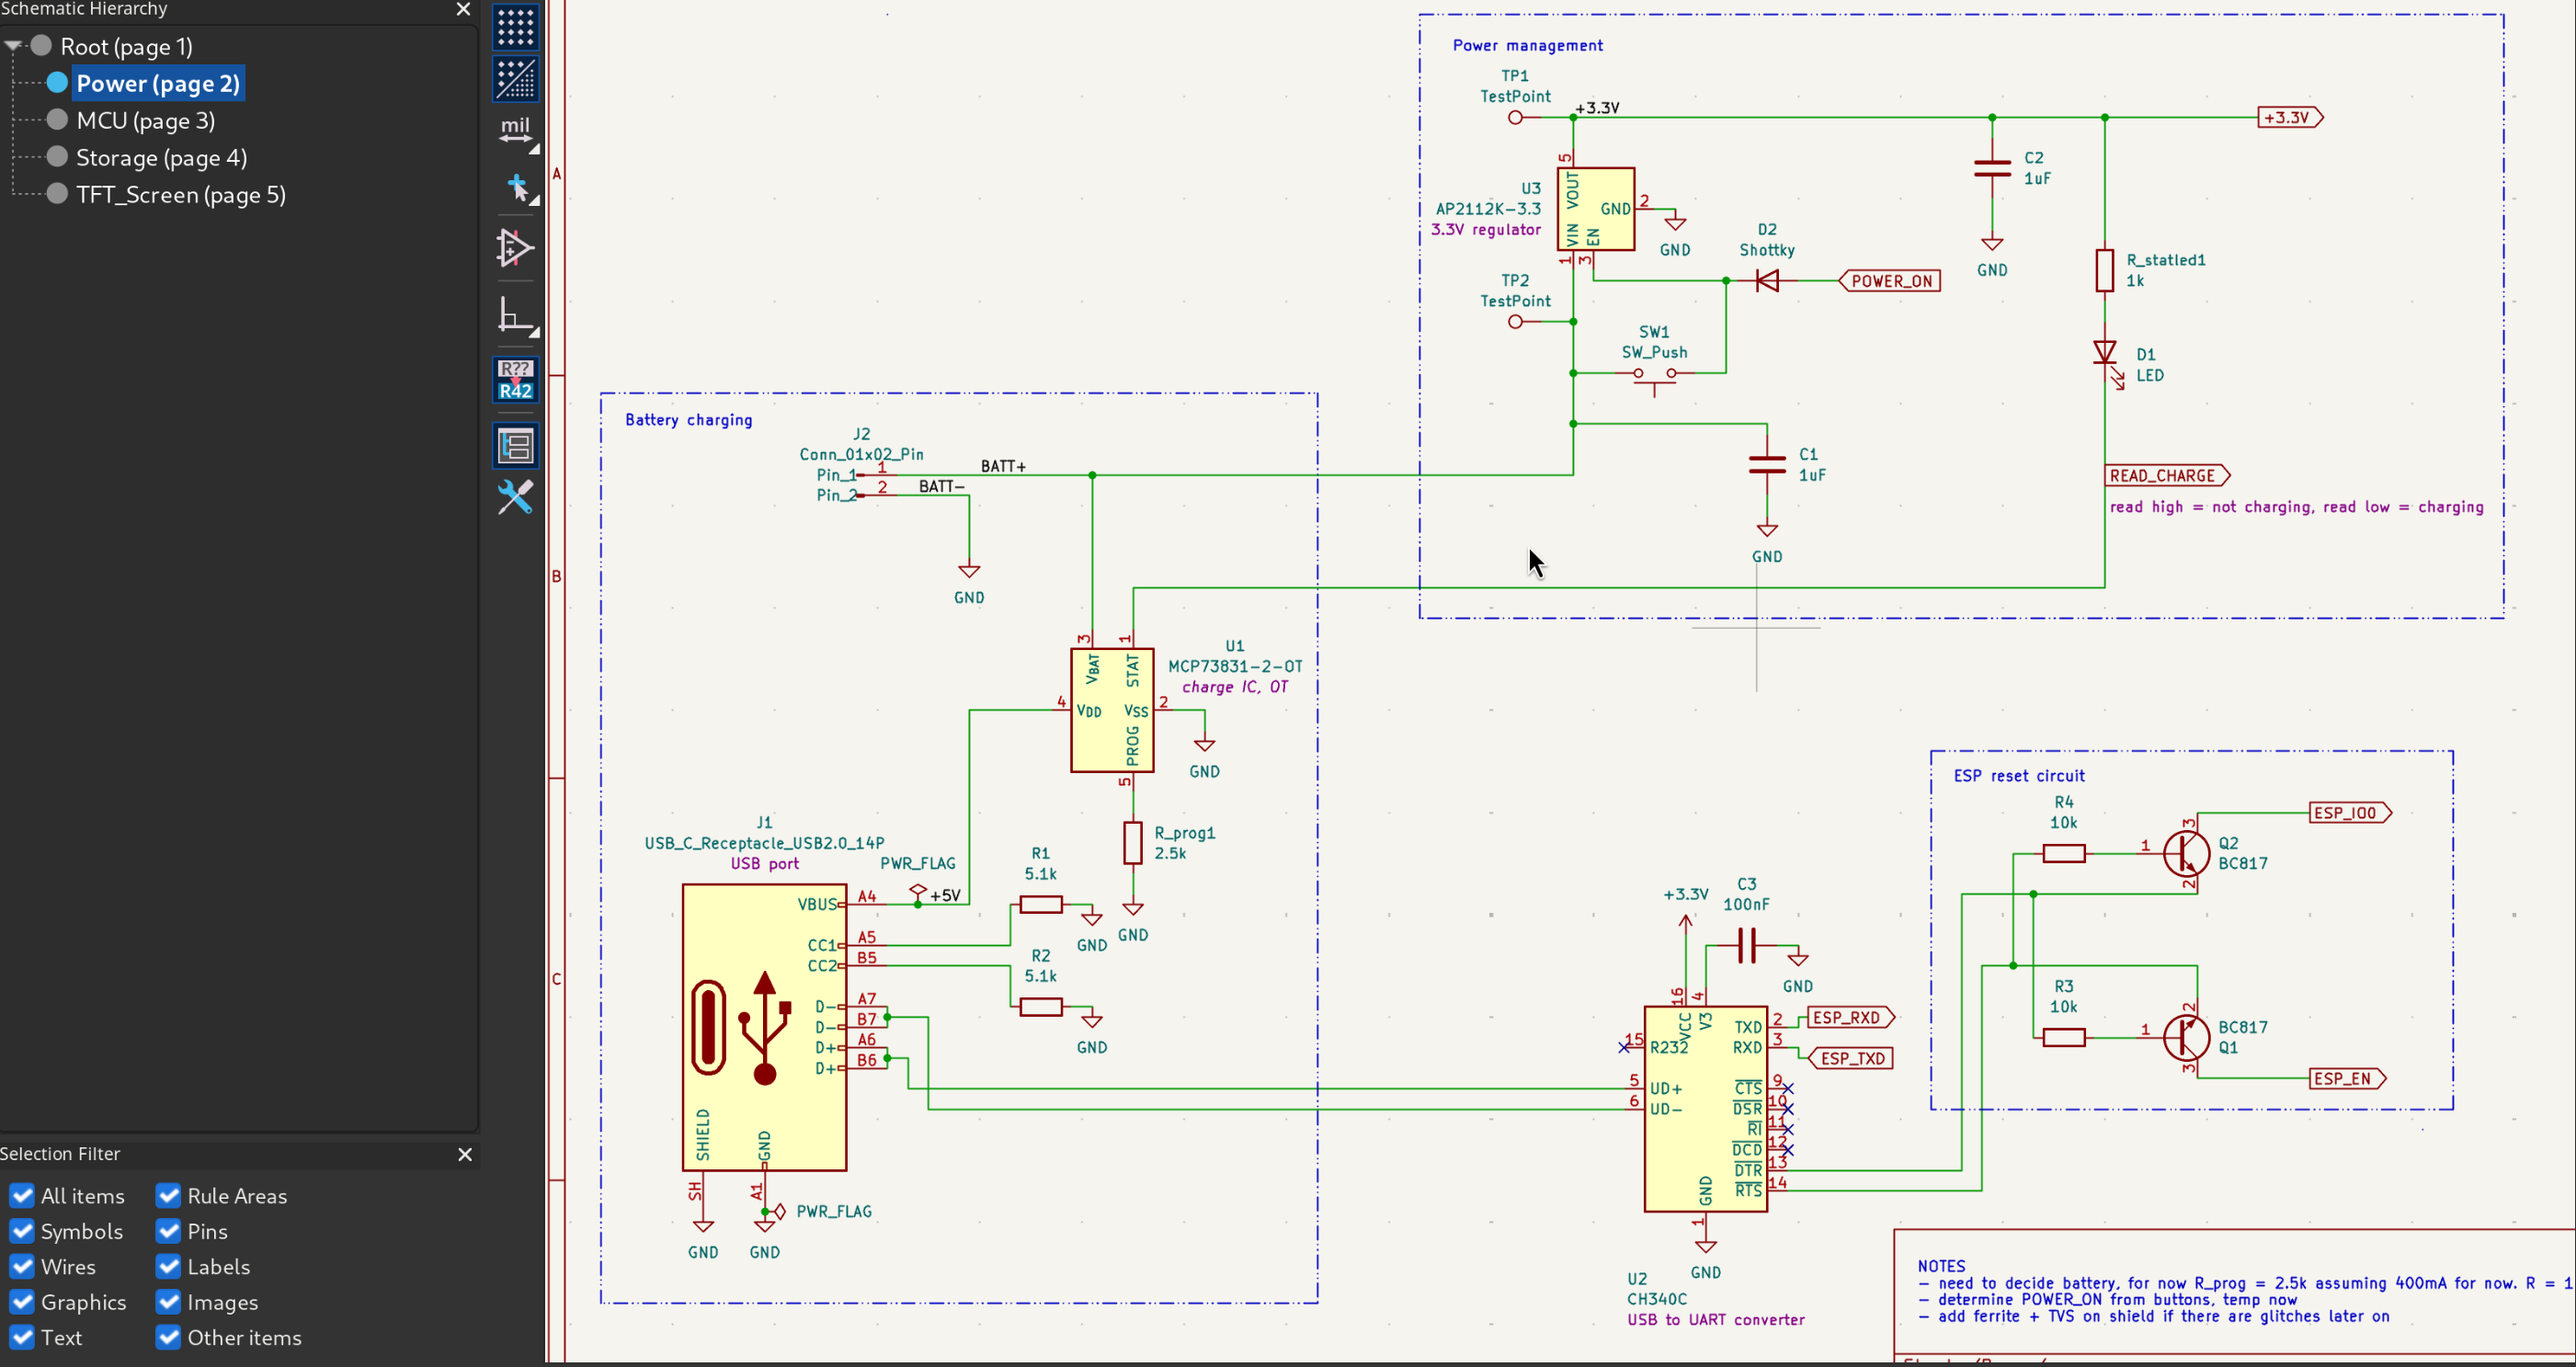
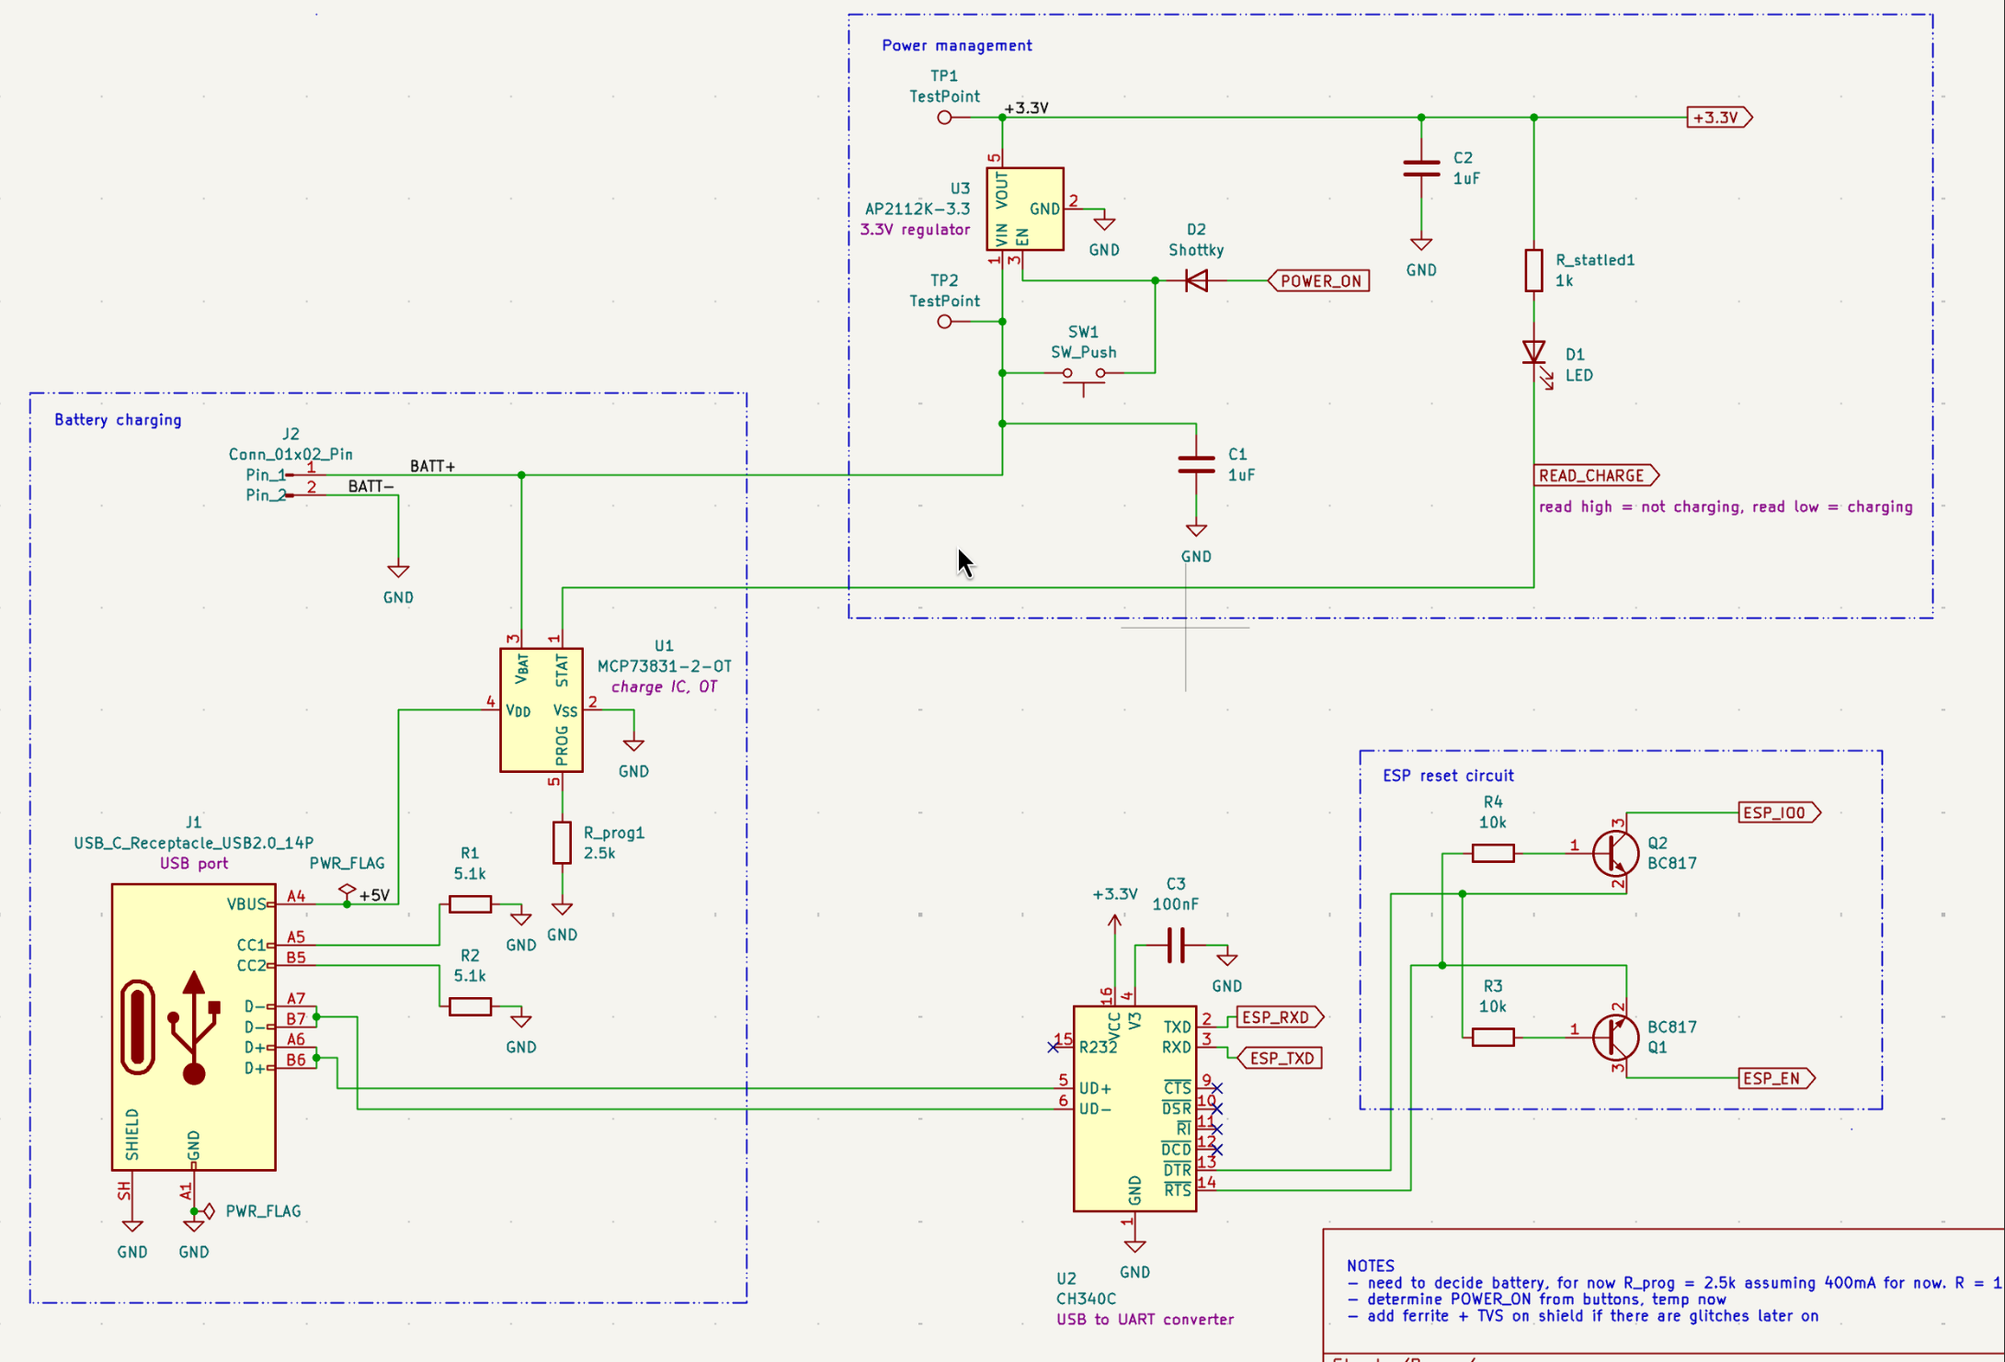
fix caching?

diff --git a/projects.html b/projects.html
@@ -4,6 +4,35 @@
   <meta charset="UTF-8">
   <meta name="viewport" content="width=device-width, initial-scale=1.0">
   <script>
+    window.SITE_REVISION = new URLSearchParams(window.location.search).get('v') || Date.now().toString(36);
+    window.versionedAssetUrl = path => {
+      const assetUrl = new URL(path, window.location.href);
+      assetUrl.searchParams.set('v', window.SITE_REVISION);
+      return assetUrl.href;
+    };
+    window.loadVersionedStyles = paths => paths.forEach(path => {
+      const stylesheet = document.createElement('link');
+      stylesheet.rel = 'stylesheet';
+      stylesheet.href = window.versionedAssetUrl(path);
+      document.head.appendChild(stylesheet);
+    });
+    window.loadVersionedScripts = paths => paths.forEach(path => {
+      document.write(`<script src="${window.versionedAssetUrl(path)}"><\/script>`);
+    });
+    fetch(`version.json?t=${Date.now()}`, { cache: 'no-store' })
+      .then(response => response.ok ? response.json() : null)
+      .then(build => {
+        if (!build?.revision) return;
+
+        const currentUrl = new URL(window.location.href);
+        if (currentUrl.searchParams.get('v') !== build.revision) {
+          currentUrl.searchParams.set('v', build.revision);
+          window.location.replace(currentUrl.href);
+        }
+      })
+      .catch(() => {});
+  </script>
+  <script>
     try {
       const linkedTheme = new URLSearchParams(location.search).get('theme');
       const savedTheme = linkedTheme || localStorage.getItem('theme');
@@ -14,10 +43,14 @@
     } catch {}
   </script>
   <title>Zuri Ye - Projects</title>
-  <link rel="stylesheet" href="css/variables.css">
-  <link rel="stylesheet" href="css/base.css">
-  <link rel="stylesheet" href="css/components.css">
-  <link rel="stylesheet" href="css/pages.css">
+  <script>
+    window.loadVersionedStyles([
+      'css/variables.css',
+      'css/base.css',
+      'css/components.css',
+      'css/pages.css'
+    ]);
+  </script>
 </head>
 <body>
 
@@ -43,9 +76,9 @@
     </div>
   </section>
 
-  <script src="js/config.js"></script>
-  <script src="js/interactions.js"></script>
-  <script src="data/projects.js"></script>
+  <script>
+    window.loadVersionedScripts(['js/config.js', 'js/interactions.js', 'data/projects.js']);
+  </script>
   <script>
     document.addEventListener('DOMContentLoaded', () => {
       const grid = document.getElementById('projects-grid');
@@ -61,6 +94,7 @@
         activeCartridge = document.activeElement;
         overlayTitle.textContent = project.title;
         overlayContent.innerHTML = project.content;
+        versionLocalAssets(overlayContent);
         overlay.classList.add('is-open');
         overlay.setAttribute('aria-hidden', 'false');
         document.body.classList.add('project-overlay-open');
@@ -109,7 +143,7 @@
         let tagsHtml = project.tags.map(tag => `<span class="tag">${tag}</span>`).join('');
 
         cartridge.innerHTML = `
-          <img src="assets/sprites/cartridge.png" class="cartridge-bg" alt="Cartridge">
+          <img src="${window.versionedAssetUrl('assets/sprites/cartridge.png')}" class="cartridge-bg" alt="Cartridge">
           <div class="cartridge-content">
             <h2 class="cartridge-title" style="top: ${cLayout.title.top}; left: ${cLayout.title.left}; transform: ${cLayout.title.transform || 'none'}; width: ${cLayout.title.width};">${project.title}</h2>
             ${project.subheading ? `<div class="cartridge-subheading" style="top: ${cLayout.subheading.top}; left: ${cLayout.subheading.left}; transform: ${cLayout.subheading.transform || 'none'}; width: ${cLayout.subheading.width};">${project.subheading}</div>` : ''}

diff --git a/index.html b/index.html
@@ -3,11 +3,35 @@
 <head>
   <meta charset="UTF-8">
   <meta name="viewport" content="width=device-width, initial-scale=1.0">
+  <script>
+    window.SITE_REVISION = new URLSearchParams(window.location.search).get('v') || Date.now().toString(36);
+    window.versionedAssetUrl = path => {
+      const assetUrl = new URL(path, window.location.href);
+      assetUrl.searchParams.set('v', window.SITE_REVISION);
+      return assetUrl.href;
+    };
+    window.loadVersionedStyles = paths => paths.forEach(path => {
+      const stylesheet = document.createElement('link');
+      stylesheet.rel = 'stylesheet';
+      stylesheet.href = window.versionedAssetUrl(path);
+      document.head.appendChild(stylesheet);
+    });
+    window.loadVersionedScripts = paths => paths.forEach(path => {
+      document.write(`<script src="${window.versionedAssetUrl(path)}"><\/script>`);
+    });
+    fetch(`version.json?t=${Date.now()}`, { cache: 'no-store' })
+      .then(response => response.ok ? response.json() : null)
+      .then(build => {
+        if (!build?.revision) return;
 
-  <!-- Cache Control: Prevents browsers from caching index.html -->
-  <meta http-equiv="Cache-Control" content="no-cache, no-store, must-revalidate">
-  <meta http-equiv="Pragma" content="no-cache">
-  <meta http-equiv="Expires" content="0">
+        const currentUrl = new URL(window.location.href);
+        if (currentUrl.searchParams.get('v') !== build.revision) {
+          currentUrl.searchParams.set('v', build.revision);
+          window.location.replace(currentUrl.href);
+        }
+      })
+      .catch(() => {});
+  </script>
 
   <script>
     try {
@@ -26,11 +50,14 @@
   <meta name="twitter:image" content="https://zuri2102.github.io/personal_website/ref/pokemon_example.png">
   <title>Zuri Ye - Home</title>
 
-  <!-- Cache-busted stylesheets -->
-  <link rel="stylesheet" href="css/variables.css?v=1.0">
-  <link rel="stylesheet" href="css/base.css?v=1.0">
-  <link rel="stylesheet" href="css/components.css?v=1.0">
-  <link rel="stylesheet" href="css/pages.css?v=1.0">
+  <script>
+    window.loadVersionedStyles([
+      'css/variables.css',
+      'css/base.css',
+      'css/components.css',
+      'css/pages.css'
+    ]);
+  </script>
 </head>
 <body>
 
@@ -45,7 +72,7 @@
   <main class="home-layout">
     
     <div class="splash-container" id="splash-container">
-      <img src="assets/images/404splash.png" alt="404 Splash" class="splash-img">
+      <img data-versioned-src="assets/images/404splash.png" alt="404 Splash" class="splash-img">
       <!-- Pokémon Sprites -->
       <a href="https://pokemondb.net/pokedex/purrloin" class="sprite sprite-bw" id="sprite-purrloin" target="_blank">
         <img src="https://img.pokemondb.net/sprites/black-white/anim/normal/purrloin.gif" alt="Purrloin" style="width:100%; height:auto; display:block;">
@@ -60,7 +87,7 @@
 
     <h1 class="home-name">ZURI YE</h1>
 
-    <a href="assets/resume.pdf" class="btn-primary retro-press" target="_blank" rel="noopener">RESUME</a>
+    <a data-versioned-href="assets/resume.pdf" class="btn-primary retro-press" target="_blank" rel="noopener">RESUME</a>
 
     <div class="home-links">
       <a href="https://github.com/zuri2102" target="_blank" rel="noopener noreferrer">GitHub</a>
@@ -72,9 +99,9 @@
 
   </main>
 
-  <!-- Cache-busted scripts -->
-  <script src="js/config.js?v=1.0"></script>
-  <script src="js/interactions.js?v=1.0"></script>
+  <script>
+    window.loadVersionedScripts(['js/config.js', 'js/interactions.js']);
+  </script>
   <script>
     // Apply configuration positions to sprites
     document.addEventListener('DOMContentLoaded', () => {

diff --git a/project.html b/project.html
@@ -4,6 +4,35 @@
   <meta charset="UTF-8">
   <meta name="viewport" content="width=device-width, initial-scale=1.0">
   <script>
+    window.SITE_REVISION = new URLSearchParams(window.location.search).get('v') || Date.now().toString(36);
+    window.versionedAssetUrl = path => {
+      const assetUrl = new URL(path, window.location.href);
+      assetUrl.searchParams.set('v', window.SITE_REVISION);
+      return assetUrl.href;
+    };
+    window.loadVersionedStyles = paths => paths.forEach(path => {
+      const stylesheet = document.createElement('link');
+      stylesheet.rel = 'stylesheet';
+      stylesheet.href = window.versionedAssetUrl(path);
+      document.head.appendChild(stylesheet);
+    });
+    window.loadVersionedScripts = paths => paths.forEach(path => {
+      document.write(`<script src="${window.versionedAssetUrl(path)}"><\/script>`);
+    });
+    fetch(`version.json?t=${Date.now()}`, { cache: 'no-store' })
+      .then(response => response.ok ? response.json() : null)
+      .then(build => {
+        if (!build?.revision) return;
+
+        const currentUrl = new URL(window.location.href);
+        if (currentUrl.searchParams.get('v') !== build.revision) {
+          currentUrl.searchParams.set('v', build.revision);
+          window.location.replace(currentUrl.href);
+        }
+      })
+      .catch(() => {});
+  </script>
+  <script>
     try {
       const linkedTheme = new URLSearchParams(location.search).get('theme');
       const savedTheme = linkedTheme || localStorage.getItem('theme');
@@ -14,10 +43,14 @@
     } catch {}
   </script>
   <title>Zuri Ye - Project</title>
-  <link rel="stylesheet" href="css/variables.css">
-  <link rel="stylesheet" href="css/base.css">
-  <link rel="stylesheet" href="css/components.css">
-  <link rel="stylesheet" href="css/pages.css">
+  <script>
+    window.loadVersionedStyles([
+      'css/variables.css',
+      'css/base.css',
+      'css/components.css',
+      'css/pages.css'
+    ]);
+  </script>
 </head>
 <body>
 
@@ -39,9 +72,9 @@
     </div>
   </main>
 
-  <script src="js/config.js"></script>
-  <script src="js/interactions.js"></script>
-  <script src="data/projects.js"></script>
+  <script>
+    window.loadVersionedScripts(['js/config.js', 'js/interactions.js', 'data/projects.js']);
+  </script>
   <script>
     document.addEventListener('DOMContentLoaded', () => {
       const params = new URLSearchParams(window.location.search);
@@ -57,6 +90,7 @@
         document.title = `Zuri Ye - ${project.title}`;
         document.getElementById('project-title').textContent = project.title;
         document.getElementById('project-content').innerHTML = project.content;
+        versionLocalAssets(document.getElementById('project-content'));
       } else {
         document.getElementById('project-title').textContent = "Project Not Found";
       }

diff --git a/about.html b/about.html
@@ -4,6 +4,35 @@
   <meta charset="UTF-8">
   <meta name="viewport" content="width=device-width, initial-scale=1.0">
   <script>
+    window.SITE_REVISION = new URLSearchParams(window.location.search).get('v') || Date.now().toString(36);
+    window.versionedAssetUrl = path => {
+      const assetUrl = new URL(path, window.location.href);
+      assetUrl.searchParams.set('v', window.SITE_REVISION);
+      return assetUrl.href;
+    };
+    window.loadVersionedStyles = paths => paths.forEach(path => {
+      const stylesheet = document.createElement('link');
+      stylesheet.rel = 'stylesheet';
+      stylesheet.href = window.versionedAssetUrl(path);
+      document.head.appendChild(stylesheet);
+    });
+    window.loadVersionedScripts = paths => paths.forEach(path => {
+      document.write(`<script src="${window.versionedAssetUrl(path)}"><\/script>`);
+    });
+    fetch(`version.json?t=${Date.now()}`, { cache: 'no-store' })
+      .then(response => response.ok ? response.json() : null)
+      .then(build => {
+        if (!build?.revision) return;
+
+        const currentUrl = new URL(window.location.href);
+        if (currentUrl.searchParams.get('v') !== build.revision) {
+          currentUrl.searchParams.set('v', build.revision);
+          window.location.replace(currentUrl.href);
+        }
+      })
+      .catch(() => {});
+  </script>
+  <script>
     try {
       const linkedTheme = new URLSearchParams(location.search).get('theme');
       const savedTheme = linkedTheme || localStorage.getItem('theme');
@@ -14,10 +43,14 @@
     } catch {}
   </script>
   <title>Zuri Ye - About</title>
-  <link rel="stylesheet" href="css/variables.css">
-  <link rel="stylesheet" href="css/base.css">
-  <link rel="stylesheet" href="css/components.css">
-  <link rel="stylesheet" href="css/pages.css">
+  <script>
+    window.loadVersionedStyles([
+      'css/variables.css',
+      'css/base.css',
+      'css/components.css',
+      'css/pages.css'
+    ]);
+  </script>
 </head>
 <body>
 
@@ -35,9 +68,9 @@
     </div>
   </main>
 
-  <script src="js/config.js"></script>
-  <script src="js/interactions.js"></script>
-  <script src="data/about.js"></script>
+  <script>
+    window.loadVersionedScripts(['js/config.js', 'js/interactions.js', 'data/about.js']);
+  </script>
   <script>
     document.addEventListener('DOMContentLoaded', () => {
       const container = document.getElementById('about-container');

diff --git a/data/projects.js b/data/projects.js
@@ -65,11 +65,14 @@ const siteProjects = [
     "  <li>Fast-charge current set via a single PROG resistor, sized around 0.5C</li>",
     "</ul>",
 
+        "<br><img src='assets/projects/mp3/charging.png' alt='charging' style='display:block;margin:0 auto;'>",
+
     "<br>",
     "<h2 style=\"color:#ff4c00;\">3.3V RAIL</h2>",
     "<ul>",
     "  <li>AP2112K-3.3 LDO, chosen over the AMS1117 for its lower dropout &mdash; keeps the board running further into a discharged battery instead of browning out early</li>",
     "</ul>",
+    "<br><img src='assets/projects/mp3/rail.png' alt='rail' style='display:block;margin:0 auto;'>",
 
     "<br>",
     "<h2 style=\"color:#ff4c00;\">SOFTWARE POWER SWITCH</h2>",
@@ -77,6 +80,8 @@ const siteProjects = [
     "  <li>P-MOSFET between battery and everything downstream, held on by either a physical button or an ESP32 GPIO (through a diode so they don't fight each other)</li>",
     "  <li>Lets firmware hold the board on after boot and cut power cleanly on shutdown</li>",
     "</ul>",
+    "<br><img src='assets/projects/mp3/reset.png' alt='reset' style='display:block;margin:0 auto;'>",
+
 
     "<br>",
     "<h2 style=\"color:#ff4c00;\">EXTRAS</h2>",
@@ -96,6 +101,9 @@ const siteProjects = [
     "  <li>Switched to a plain ESP32-WROOM-32E for native Classic BT + BLE + WiFi</li>",
     "  <li>Trade-off: no native USB anymore, so a CH340C handles flashing/serial</li>",
     "</ul>",
+
+        "<br><img src='assets/projects/mp3/uart.png' alt='uart' style='display:block;margin:0 auto;'>",
+
 
     "<br>",
     "<h2 style=\"color:#ff4c00;\">FLASHING</h2>",

diff --git a/js/interactions.js b/js/interactions.js
@@ -1,6 +1,14 @@
 // js/interactions.js
 
 document.addEventListener('DOMContentLoaded', () => {
+  document.querySelectorAll('[data-versioned-src]').forEach(asset => {
+    asset.src = window.versionedAssetUrl(asset.dataset.versionedSrc);
+  });
+
+  document.querySelectorAll('[data-versioned-href]').forEach(asset => {
+    asset.href = window.versionedAssetUrl(asset.dataset.versionedHref);
+  });
+
   // Persistent light/dark theme toggle
   const themeToggle = document.createElement('button');
   themeToggle.type = 'button';
@@ -125,6 +133,20 @@ window.addEventListener('storage', event => {
   const themeToggle = document.querySelector('.theme-toggle');
   themeToggle?.setAttribute('aria-label', `Switch to ${isDark ? 'light' : 'dark'} mode`);
 });
+
+// Give locally hosted images injected from data files the current deploy URL.
+// External images are intentionally left untouched.
+function versionLocalAssets(container) {
+  if (!window.SITE_REVISION) return;
+
+  container.querySelectorAll('[src]').forEach(asset => {
+    const assetUrl = new URL(asset.getAttribute('src'), window.location.href);
+    if (assetUrl.origin !== window.location.origin) return;
+
+    assetUrl.searchParams.set('v', window.SITE_REVISION);
+    asset.src = assetUrl.href;
+  });
+}
 
 // Helper function to render line numbers for code blocks
 function renderLineNumbers() {
